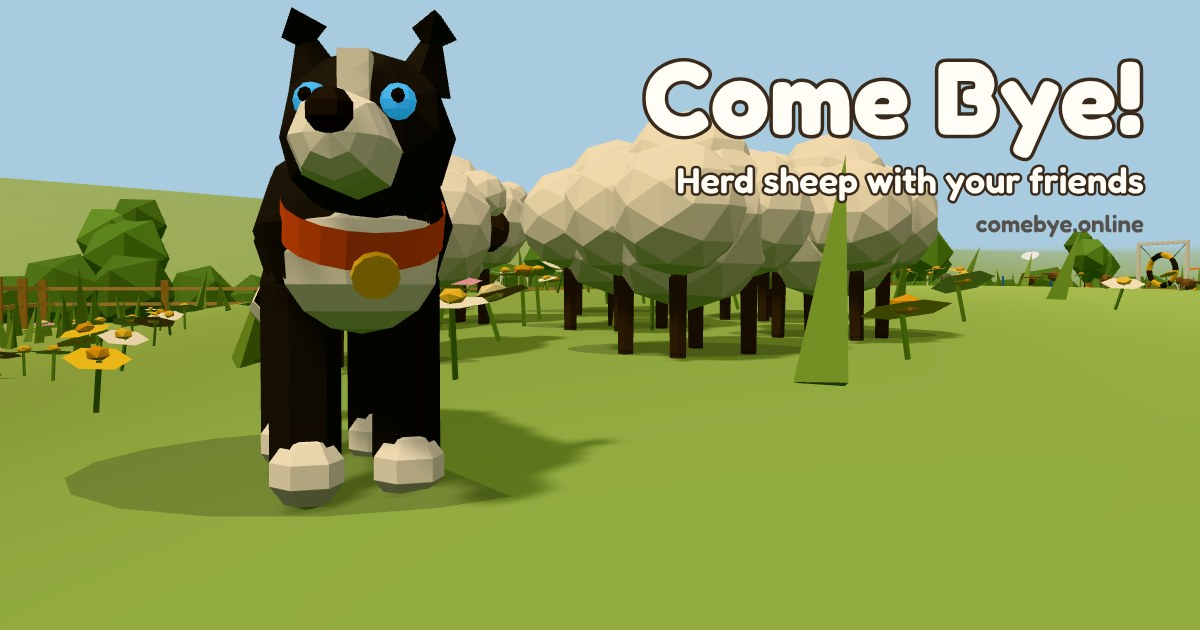
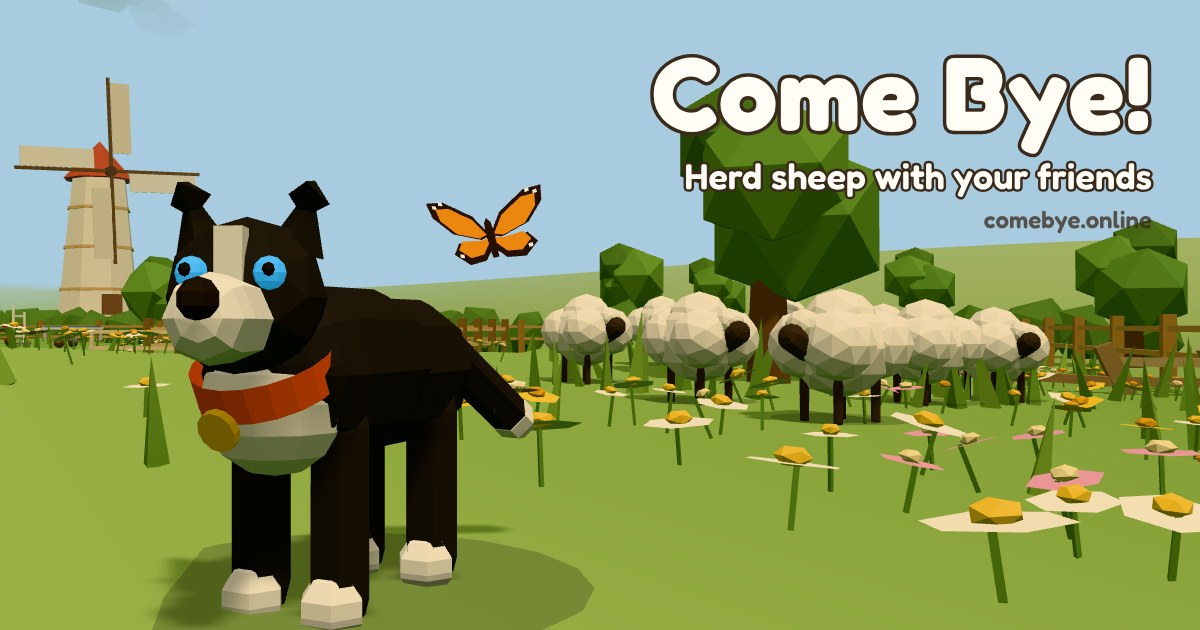
Share preview, take two: a real tree, sheep side on with heads up, and a butterfly by the collie's ear
Claude-Session: https://claude.ai/code/session_01DSA8h6pGDdoaynKaNjiyVg

diff --git a/src/client/index.html b/src/client/index.html
@@ -12,14 +12,14 @@
   <meta property="og:title" content="Come Bye! Join my pack" />
   <meta property="og:description" content="A cozy sheepdog herding game. Round up the flock together, right in your browser." />
   <meta property="og:url" content="https://comebye.online/" />
-  <meta property="og:image" content="https://comebye.online/og.jpg" />
+  <meta property="og:image" content="https://comebye.online/og.jpg?v=2" />
   <meta property="og:image:width" content="1200" />
   <meta property="og:image:height" content="630" />
-  <meta property="og:image:alt" content="A black and white collie standing in a sunny meadow with a flock of sheep behind her" />
+  <meta property="og:image:alt" content="A black and white collie in a sunny meadow, a butterfly by her ear, sheep grazing by a tree behind her" />
   <meta name="twitter:card" content="summary_large_image" />
   <meta name="twitter:title" content="Come Bye! Join my pack" />
   <meta name="twitter:description" content="A cozy sheepdog herding game. Round up the flock together, right in your browser." />
-  <meta name="twitter:image" content="https://comebye.online/og.jpg" />
+  <meta name="twitter:image" content="https://comebye.online/og.jpg?v=2" />
 </head>
 <body>
   <div id="game"></div>

diff --git a/docs/DECISIONS.md b/docs/DECISIONS.md
@@ -22,9 +22,12 @@ Newest first. Each entry says what was decided and why, signed with the model.
 - New online scenario R: mid-run the friend's page is frozen solid (debugger paused, socket left
   open), she opens the link in a fresh browser with the same name: back in her own seat in under
   8 s (before the fix: a second "Sam" watching from the side). Two unit tests cover the rules.
-- **Link preview:** Open Graph and Twitter tags with a 1200x630 card (`public/og.jpg`, 86 KB): a
-  collie in the meadow with the flock behind her and the title in the game's own lettering,
-  rendered from the game itself.
+- **Link preview:** Open Graph and Twitter tags with a 1200x630 card (`public/og.jpg`): a collie
+  in the meadow with the title in the game's own lettering, rendered from the game itself. Second
+  take (Kyle: the background read as "weird golf balls"): seen from behind with heads down, sheep
+  are woolly balls on sticks, so the flock now stands side on with heads up beside the meadow's
+  oak, and an orange butterfly flits by her ear. The image URL carries `?v=2` so chat apps that
+  cached the first one fetch the new one.
 
 ## 2026-10-31 (night, last): an agility course, and piano from the next room (Claude Opus 5.5)
 
